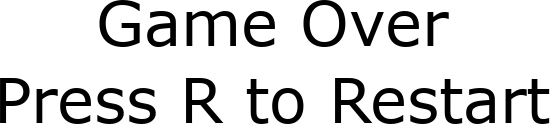
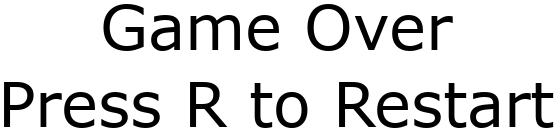
parallax

diff --git a/game.js b/game.js
@@ -1,5 +1,8 @@
 
-var cubosLista = []
+var listCubes = []
+
+var listFloor = []
+var listBG = []
 
 var KEY_R = 82
 var KEY_ARROW_DOWN		= 40
@@ -23,6 +26,8 @@ var isLeftPressed = false
 var imgPlayer = new Image()
 var imgGameOver = new Image()
 var imgPixel = new Image()
+var imgBG = new Image()
+var imgFloor = new Image()
 
 // Dificultad del juego
 var speed = -150
@@ -32,21 +37,21 @@ var speed = -150
 function Player(_x, _y, _m){
 
     var player = {
-        x: _x,  // posicion x                          
-        y: _y,  // posicion y
-        w: 16,  // anchura
-        h: 32,  // altura
-        m: 9,   // masa
-        vx: 0,  // velocidad x
-        vy: 0,  // velocidad y
-        ax: 0,  // aceleracion x
-        ay: 0,  // aceleracion y
-        speed: 150, //
-        angle: 0,   // angulo de imagen
-        jumpForce: -200000, // fuerza de salto
-        g: 980, // gravedad
-        ground : false, // esta en el suelo?
-        crouch: false,  // esta agachado?
+        x: _x,                 
+        y: _y,
+        w: 16,
+        h: 32,
+        m: 9, 
+        vx: 0,
+        vy: 0,
+        ax: 0,
+        ay: 0,
+        speed: 150, 
+        angle: 0,   
+        jumpForce: -200000, 
+        g: 980, 
+        ground : false, 
+        crouch: false,  
 
 
         // funcion actualizar
@@ -81,36 +86,27 @@ function Player(_x, _y, _m){
 
             // MRUV
             // Acc
-            // ecuacion de aceleracion
             this.ay += this.g 
 
             // Velocity
-            // ecuacion de velocidad
-            this.vx += this.ax * elapsed_time
             this.vy += this.ay * elapsed_time
 
             // Position
-            // ecuacion de posicion
-            this.x += this.vx * elapsed_time + 1/2 * this.ax * (elapsed_time * elapsed_time)
             this.y += this.vy * elapsed_time + 1/2 * this.ay * (elapsed_time * elapsed_time)
 
             // Collision
-            this.collision()
-
+            this.collisionCubos()
             
-
-            if (this.y + this.h > suelo.y){
-                this.y = (suelo.y - this.h)
-                this.vy = 0
-                this.ay = 0
-                this.ground = true
-            }
+            // Collision floor
+            this.collisionFloor()
         },
+
+        
 
         jump:function(){
             if (this.ground){
-            this.ay += this.jumpForce / this.m
-            this.ground = false
+                this.ay += this.jumpForce / this.m
+                this.ground = false
             }
         },
 
@@ -123,30 +119,38 @@ function Player(_x, _y, _m){
         draw: function(){
             DrawImage(imgPlayer, this.x, this.y, this.w, this.h, 0, 0, this.angle)
             
-            /* DRAW COLLISION
+            // Outline
             for (var i = this.x; i < this.x + this.w; i++){
-                DrawImageSimple(imgPixel, i, this.y, 1, 1)
-                DrawImageSimple(imgPixel, i, this.y + this.h, 1, 1)
+                DrawRectangle(i, this.y, 1, 1, 255, 255, 255, 1)
+                DrawRectangle(i, this.y + this.h, 1, 1, 255, 255, 255, 1)
             }
-
-
             for (var i = this.y; i < this.y + this.h; i++){
-                DrawImageSimple(imgPixel, this.x, i, 1, 1)
-                DrawImageSimple(imgPixel, this.x + this.w, i, 1, 1)
+                DrawRectangle(this.x, i, 1, 1, 255, 255, 255, 1)
+                DrawRectangle(this.x + this.w, i, 1, 1, 255, 255, 255, 1)
             }
-            */
         },
 
-        collision:function(){
+        collisionFloor:function(){
+            for (var i = 0; i < listFloor.length; i++){
+                if ((this.y + this.h) > listFloor[i].y){
+                    this.y = (listFloor[i].y - this.h)
+                    this.vy = 0
+                    this.ay = 0
+                    this.ground = true
+                }
+            }
+        },
 
-            for (var i = 0; i < cubosLista.length; i++){
+        collisionCubos:function(){
 
-                var colx1 = (this.x + this.w) > cubosLista[i].x
-                var colx2 = this.x < (cubosLista[i].x + cubosLista[i].w)
+            for (var i = 0; i < listCubes.length; i++){
+
+                var colx1 = (this.x + this.w) > listCubes[i].x
+                var colx2 = this.x < (listCubes[i].x + listCubes[i].w)
                 var colx = colx1 && colx2
 
-                var coly1 = (this.y + this.h) > cubosLista[i].y
-                var coly2 = this.y < (cubosLista[i].y + cubosLista[i].h)
+                var coly1 = (this.y + this.h) > listCubes[i].y
+                var coly2 = this.y < (listCubes[i].y + listCubes[i].h)
                 var coly = coly1 && coly2
 
 
@@ -165,15 +169,15 @@ function Generador(){
         x: screenWidth,
         y: screenHeight/2,
         canSpawn: false,
-        minTime: 2,
+        minTime: 1,
         maxTime: 5,
 
         generateCube: function(){
             var rand = Math.random()
             if (rand > 0.5){
-                cubosLista.push(new Cubo(this.x, this.y, 16, 16, speed))
+                listCubes.push(new Cube(this.x, this.y, 80, 16, speed))
             }else{
-                cubosLista.push(new Cubo(this.x, this.y, 16, 32, speed))
+                listCubes.push(new Cube(this.x, this.y, 16, 32, speed))
             }
 
             setTimeout(() => {
@@ -189,8 +193,8 @@ function Generador(){
     return generador
 }
 
-function Cubo(_x, _y, _w, _h, _speed){
-    var cubo = {
+function Cube(_x, _y, _w, _h, _speed){
+    var cube = {
         x: _x,
         y: _y,
         w: _w,
@@ -216,24 +220,70 @@ function Cubo(_x, _y, _w, _h, _speed){
 
         draw: function(){
             DrawRectangle(this.x, this.y, this.w, this.h, 0, 0, 0, 1)
+
+            // Outline
+            for (var i = this.x; i < this.x + this.w; i++){
+                DrawRectangle(i, this.y, 1, 1, 255, 255, 255, 1)
+                DrawRectangle(i, this.y + this.h, 1, 1, 255, 255, 255, 1)
+            }
+            for (var i = this.y; i < this.y + this.h; i++){
+                DrawRectangle(this.x, i, 1, 1, 255, 255, 255, 1)
+                DrawRectangle(this.x + this.w, i, 1, 1, 255, 255, 255, 1)
+            }
         },
     }
 
-    return cubo
+    return cube
 }
 
-function Suelo(_x, _y, _w, _h){
-    var suelo = {
+function Floor(_x, _y, _w, _h, _speed){
+    var floor = {
+        x: _x,
+        y: _y,
+        w: _w,
+        h: _h,
+        vx: 0,
+        vy: 0,
+        ax: 0,
+        ay: 0,
+        acc: 0,
+        speed: -_speed,
+
+
+        update: function(){
+            // Acc
+            this.ax += this.acc
+
+            // Velocity
+            this.vx = this.ax * elapsed_time + this.speed
+
+            // Position
+            this.x += this.vx * elapsed_time + 1/2 * this.ax * (elapsed_time * elapsed_time)
+        },
+
+        draw: function(){
+            DrawImage(imgFloor, this.x, this.y, this.w, this.h, 0, 0, this.angle)
+        }
+    }
+    return floor
+}
+
+function BG(_x, _y, _w, _h){
+    var bg = {
         x: _x,
         y: _y,
         w: _w,
         h: _h,
 
+        update: function(){
+
+        },
+
         draw: function(){
-            DrawRectangle(this.x, this.y, this.w, this.h, 0, 0, 0, 1)
+            DrawImage(imgBG, this.x, this.y, this.w, this.h, 0, 0, this.angle)
         }
     }
-    return suelo
+    return bg
 }
 
 function GameOver(_x, _y){
@@ -250,14 +300,53 @@ function GameOver(_x, _y){
 
         draw: function(){
             DrawImage(imgGameOver, this.x, this.y, this.w, this.h, this.w/4, this.h/4, this.angle)
-            DrawCircle(this.x, this.y, 1, 255, 255, 255, 1)
         }
     }
     return gameOver
 }
 
-var suelo = new Suelo(0, screenHeight/2+32,screenWidth, 32)
+function Parallax(){
+    var parallax = {
+        
+        canGenerate: true,
+
+        update:function(){
+            for (var i = 0; i < listFloor.length; i++){
+                if (listFloor[i].x + listFloor[i].w < 0){
+                    this.canGenerate = true
+                    listFloor.shift()
+                }
+                if (listFloor[0].x + listFloor[0].w < 800 && this.canGenerate){
+                    this.generateFloor()
+                    this.canGenerate = false
+                }
+                listFloor[i].update()
+            }
+
+        },
+
+        draw:function(){
+            listFloor.forEach(floor =>{
+                floor.draw();
+            })
+        },
+
+        firstFloor: function(){
+            listFloor.push(new Floor(0, 332, 1600, 111, -speed))
+        },
+
+        generateFloor: function(){
+            listFloor.push(new Floor(800, 332, 1600, 111, -speed))
+        }
+    }
+    return parallax
+}
+
+var bg = new BG(0, 0, 1600, 995)
+//var floor = new Floor(0, 332, 1600, 111, speed)
+
 var player = new Player(50, 250)
+var parallax = new Parallax()
 var generador = new Generador()
 var gameOver = new GameOver(0, 100)
 
@@ -268,7 +357,10 @@ function Start()
     imgPlayer.src = "img/player.jpg"
     imgGameOver.src = "img/gameover.png"
     imgPixel.src = "img/pixel.png"
+    imgBG.src = "img/fondo.png"
+    imgFloor.src = "img/piso.png"
 
+    parallax.firstFloor()
     generador.generateCube()
 
 }
@@ -276,16 +368,18 @@ function Start()
 function Update()
 {
     if (!pause){
+        console.log(listFloor.length)
         player.update()
         generador.update()
-        cubosLista.forEach(cubo => {
-        if (cubo.x + 32 < 0){
-            cubosLista.shift()
-            score += 10 + time * .5
-        }
-        cubo.update()
+        parallax.update();
+        listCubes.forEach(cube => {
+            if (cube.x + cube.w < 0){
+                listCubes.shift()
+                score += 10 + time * .5
+            }
+            cube.update()
         });
-
+        time += elapsed_time
         difficultyControl()
     }
 
@@ -309,16 +403,19 @@ function Update()
 function Render()
 {
     //Clean BG
-    DrawRectangle(0, 0, 800, 600, 200, 200, 200, 1)
+    bg.draw();
+
+    parallax.draw()
 
     //Draw pj
     player.draw()
 
-    cubosLista.forEach(cubo => {
-        cubo.draw();
+
+    listCubes.forEach(cube => {
+        cube.draw();
     });
 
-    suelo.draw()
+    //floor.draw()
 
     // Score and Highscore
     SetFont("35px Arial")
@@ -339,8 +436,8 @@ function difficultyControl(){
     speed -= elapsed_time * 1.5
     score += elapsed_time * 1.2
 
-
-    if (score > 500){
-
+    if (time % 25 <= 0.017 && generador.maxTime >= 1){
+        generador.maxTime -= 0.5
     }
+    console.log(generador.maxTime)
 }

diff --git a/js/canvas_engine.js b/js/canvas_engine.js
@@ -208,6 +208,9 @@ function DrawImageSimple(image, x, y, w, h)
  */
 function DrawText(text, x, y, r, g, b, a) {
     if (ctxset) {
+        ctx.strokeStyle = 'rgba(' + (255-r) + ',' + (255-g) + ',' + (255-b) + ',' + a + ')';
+        ctx.strokeText(text, x, y);
+        ctx.lineWidth = 3;
         ctx.fillStyle = 'rgba(' + r + ',' + g + ',' + b + ',' + a + ')';
         ctx.fillText(text, x, y);
     }
